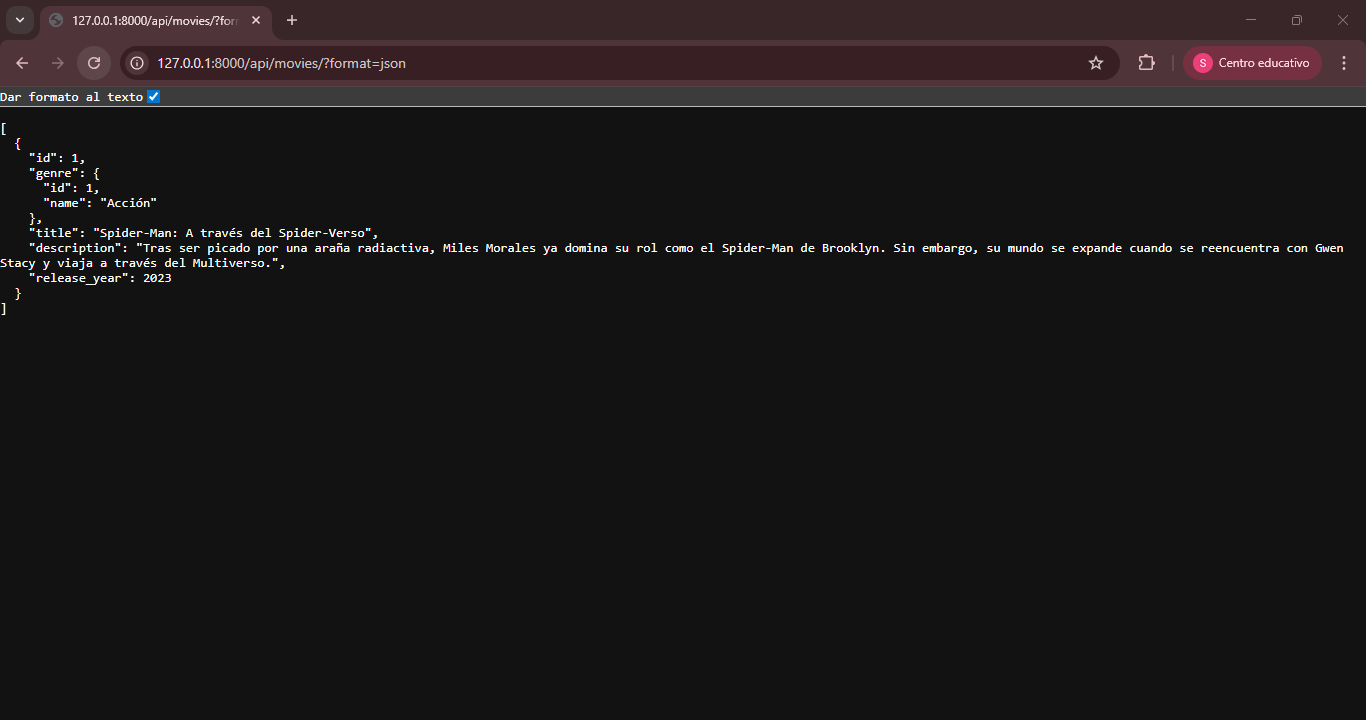
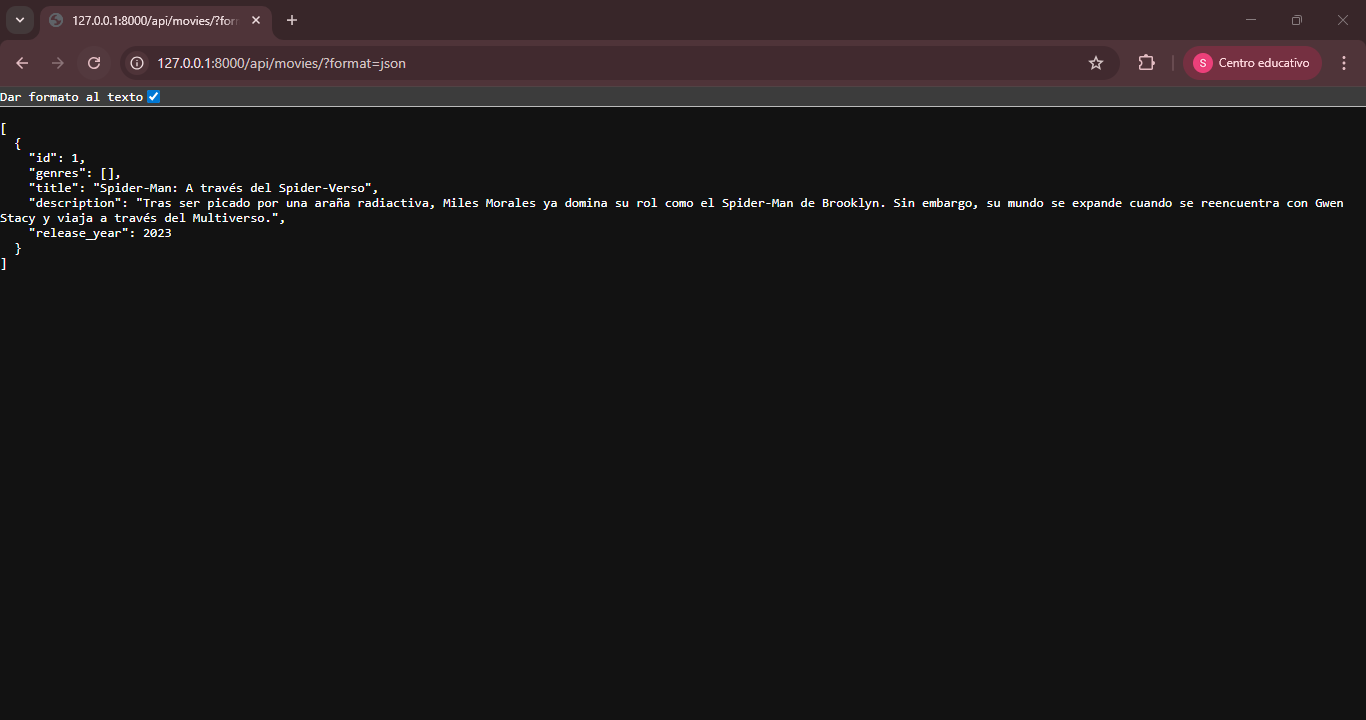
Segunda parte del proyecto

Changed region(s): [[0.0, 0.2444, 0.7072, 0.3972], [0.7379, 0.3361, 0.9839, 0.3667], [0.7379, 0.275, 0.9839, 0.3056]]

diff --git a/movies/admin.py b/movies/admin.py
@@ -1,6 +1,7 @@
 from django.contrib import admin
 from .models import Movie, Genre
 
+# NUEVO
 @admin.register(Genre)
 class GenreAdmin(admin.ModelAdmin):
     list_display = ('id', 'name')
@@ -9,6 +10,8 @@ class GenreAdmin(admin.ModelAdmin):
 
 @admin.register(Movie)
 class MovieAdmin(admin.ModelAdmin):
-    list_display = ('id', 'title', 'release_year', 'genre')
-    list_filter = ('genre', 'release_year')
+    list_display = ('id', 'title', 'release_year')
     search_fields = ('title',)
+
+    # NUEVO: permite seleccionar géneros en el admin
+    filter_horizontal = ("genres",)  # IMPORTANTE

diff --git a/movies/models.py b/movies/models.py
@@ -1,5 +1,6 @@
 from django.db import models
 
+# NUEVO
 class Genre(models.Model):
     name = models.CharField(max_length=100, unique=True)
 
@@ -11,7 +12,9 @@ class Movie(models.Model):
     title = models.CharField(max_length=200)
     description = models.TextField()
     release_year = models.PositiveIntegerField()
-    genre = models.ForeignKey(Genre, on_delete=models.CASCADE, related_name="movies")
+
+    # CAMBIO: antes era ForeignKey, ahora ManyToMany
+    genres = models.ManyToManyField(Genre, related_name="movies")  # NUEVO
 
     def __str__(self):
         return self.title

diff --git a/movies/migrations/0002_remove_movie_genre_movie_genres.py b/movies/migrations/0002_remove_movie_genre_movie_genres.py
@@ -1,0 +1,22 @@
+# Generated by Django 6.0.4 on 2026-04-29 19:04
+
+from django.db import migrations, models
+
+
+class Migration(migrations.Migration):
+
+    dependencies = [
+        ('movies', '0001_initial'),
+    ]
+
+    operations = [
+        migrations.RemoveField(
+            model_name='movie',
+            name='genre',
+        ),
+        migrations.AddField(
+            model_name='movie',
+            name='genres',
+            field=models.ManyToManyField(related_name='movies', to='movies.genre'),
+        ),
+    ]

diff --git a/movies/serializers.py b/movies/serializers.py
@@ -1,14 +1,17 @@
 from rest_framework import serializers
 from .models import Movie, Genre
 
+# NUEVO
 class GenreSerializer(serializers.ModelSerializer):
     class Meta:
         model = Genre
-        fields = '__all__'
+        fields = "__all__"
+
 
 class MovieSerializer(serializers.ModelSerializer):
-    genre = GenreSerializer()
+    # CAMBIO
+    genres = GenreSerializer(many=True)  # NUEVO
 
     class Meta:
         model = Movie
-        fields = '__all__'
+        fields = "__all__"

diff --git a/movies/urls.py b/movies/urls.py
@@ -2,7 +2,10 @@ from rest_framework.routers import DefaultRouter
 from .views import MovieViewSet, GenreViewSet
 
 router = DefaultRouter()
-router.register('movies', MovieViewSet, basename='movies')
+
+# NUEVO
 router.register('genres', GenreViewSet, basename='genres')
+
+router.register('movies', MovieViewSet, basename='movies')
 
 urlpatterns = router.urls

diff --git a/movies/views.py b/movies/views.py
@@ -2,6 +2,8 @@ from rest_framework import viewsets
 from .models import Movie, Genre
 from .serializers import MovieSerializer, GenreSerializer
 
+
+# NUEVO
 class GenreViewSet(viewsets.ModelViewSet):
     queryset = Genre.objects.all()
     serializer_class = GenreSerializer

diff --git a/README.md b/README.md
@@ -7,3 +7,9 @@
 
 ### Captura #2:
 ![Captura 2](/imgs/C02.png)
+
+### Captura #3:
+![Captura 3](/imgs/C03.png)
+
+### Captura #4:
+![Captura 4](/imgs/C04.png)
